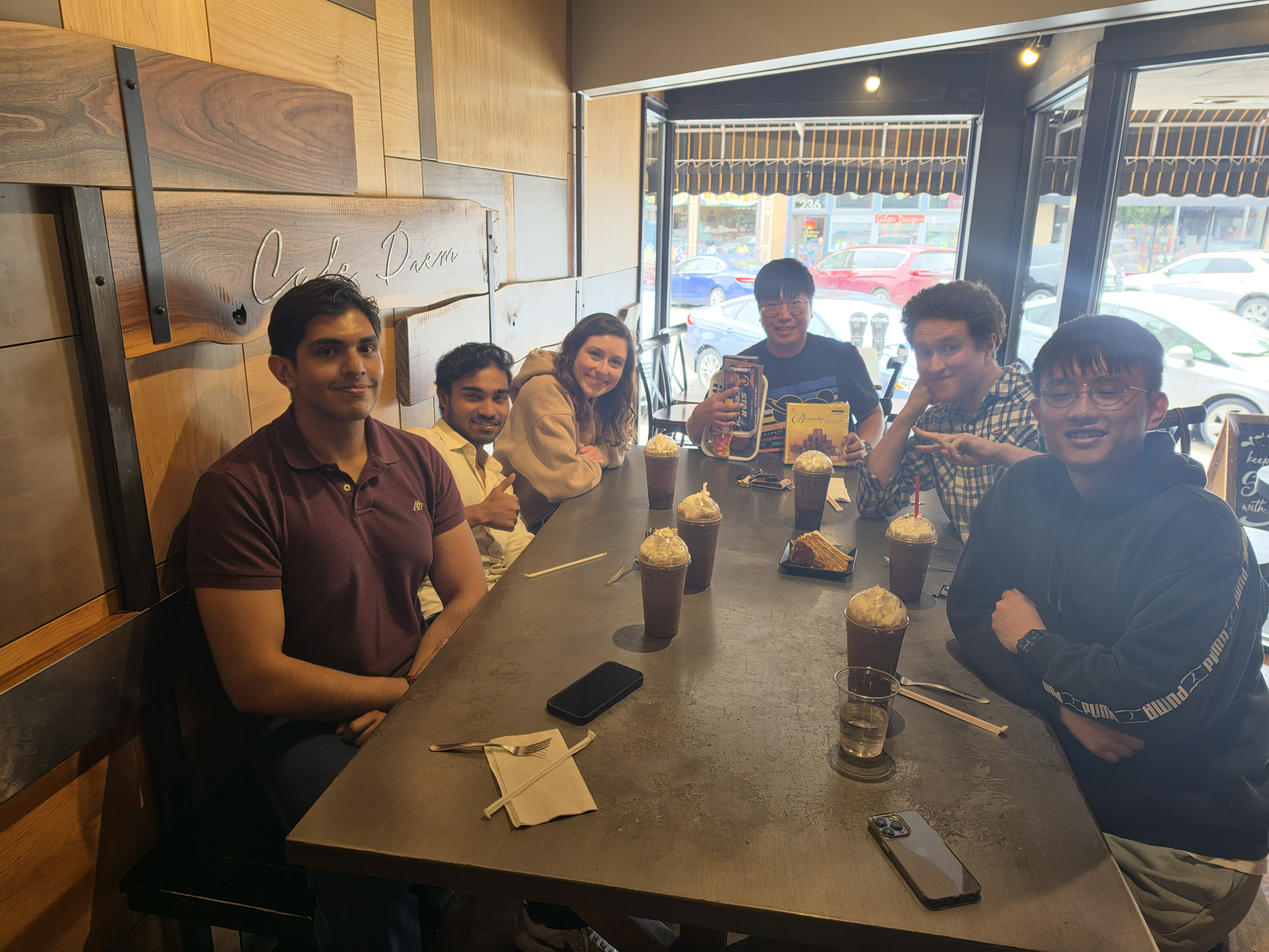
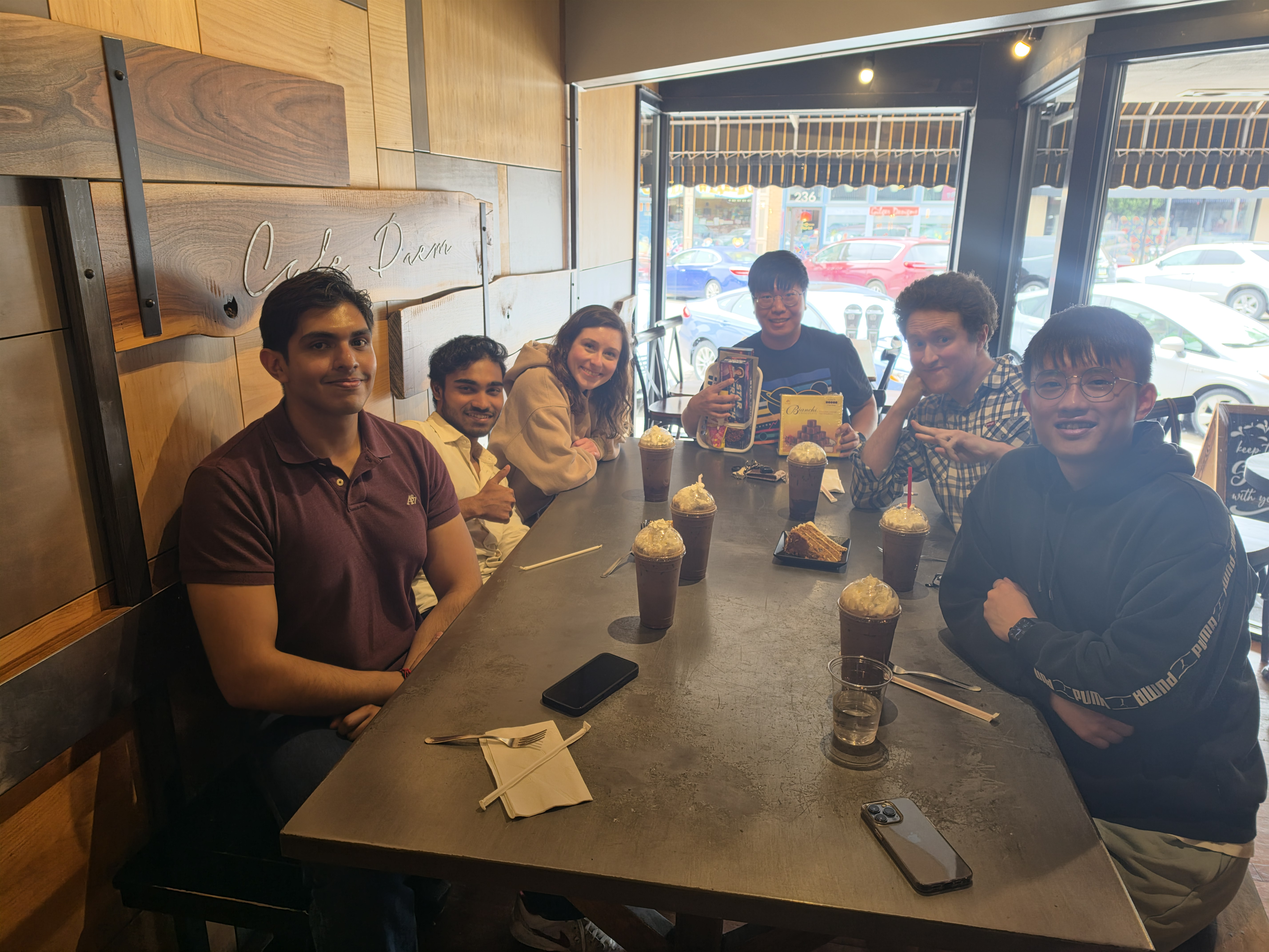
Update News section photos with newly uploaded images

diff --git a/news.html b/news.html
@@ -108,11 +108,11 @@
             </p>
             
             <div class="news-photo-grid">
-              <div class="news-photo-item" onclick="openCenterLightbox('News/20260517_1.jpg?v=2.0', 'Spring 2026 AIM Lab Gathering')">
-                <img src="News/20260517_1.jpg?v=2.0" alt="Spring 2026 AIM Lab Gathering" class="news-img">
+              <div class="news-photo-item" onclick="openCenterLightbox('News/20260517_1.jpg?v=3.0', 'Spring 2026 AIM Lab Gathering')">
+                <img src="News/20260517_1.jpg?v=3.0" alt="Spring 2026 AIM Lab Gathering" class="news-img">
               </div>
-              <div class="news-photo-item" onclick="openCenterLightbox('News/20260517_2.jpg', 'Spring 2026 AIM Lab Gathering')">
-                <img src="News/20260517_2.jpg" alt="Spring 2026 AIM Lab Gathering" class="news-img">
+              <div class="news-photo-item" onclick="openCenterLightbox('News/20260517_2.jpg?v=3.0', 'Spring 2026 AIM Lab Gathering')">
+                <img src="News/20260517_2.jpg?v=3.0" alt="Spring 2026 AIM Lab Gathering" class="news-img">
               </div>
             </div>
           </div>
